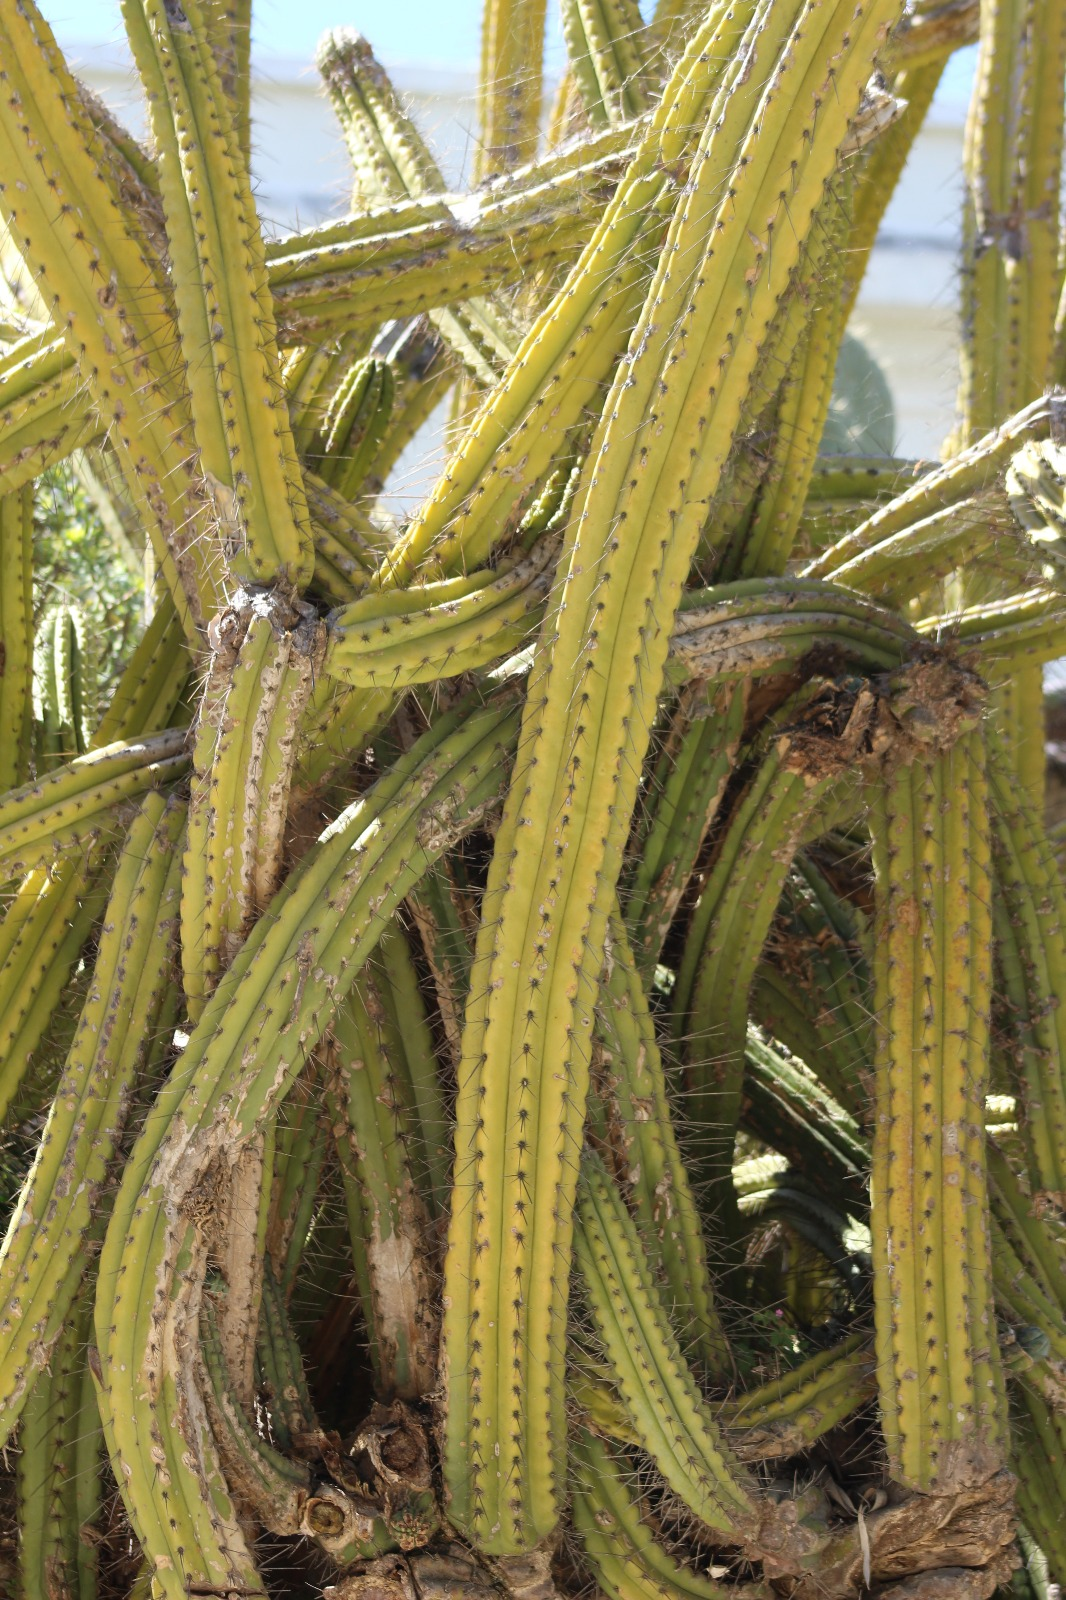
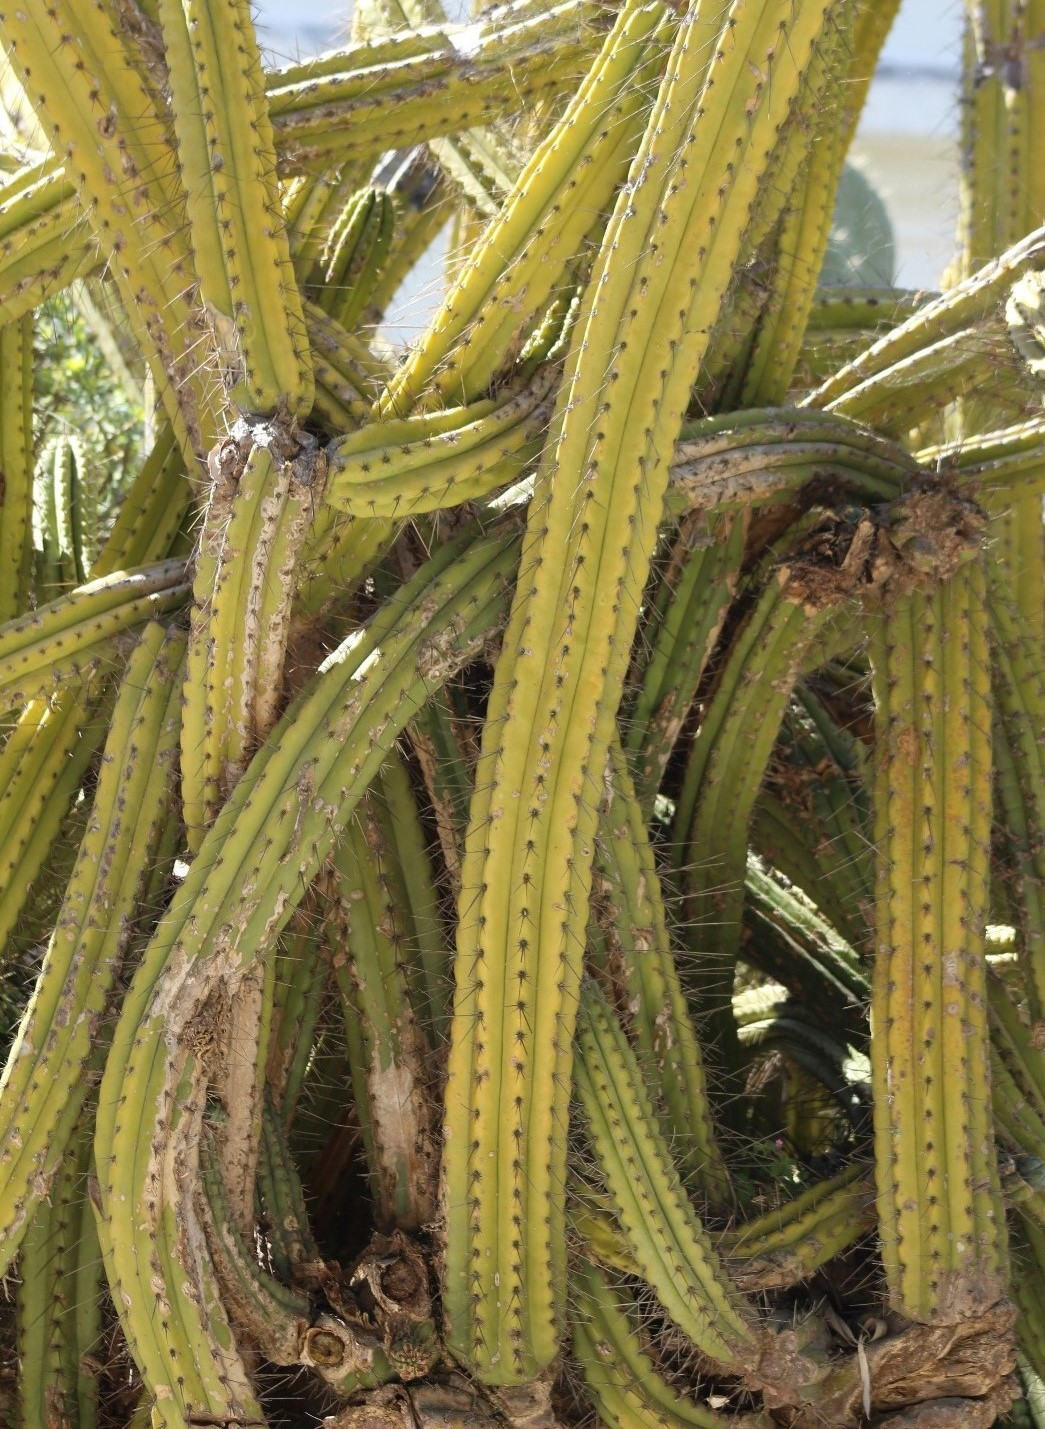
coloquei fotos nos detalhes

diff --git a/detalhe5.html b/detalhe5.html
@@ -26,7 +26,7 @@
 									<header>
 										<span class="date"></span>
 									</header>
-									<a href="#" class="image fit"><img src="images/pintura digital 4- final.jpeg" alt="" /></a>
+									<a href="#" class="image fit"><img src="images/IMG-20180502-WA0094.jpg" alt="" /></a>
 									<p></p>
 									<ul class="actions special">
 									</ul>
@@ -35,7 +35,7 @@
 									<header>
 										<span class="date"></span>
 									</header>
-									<a href="#" class="image fit"><img src="images/Captura de Ecrã (22).jpg" height="610" alt="" /></a>
+									<a href="#" class="image fit"><img src="images/IMG-20180502-WA0080.jpg" height="610" alt="" /></a>
 									<p></p>
 									<ul class="actions special">
 									</ul>
@@ -44,7 +44,7 @@
 									<header>
 										<span class="date"></span>
 									</header>
-									<a href="#" class="image fit"><img src="images/IMG_293fff1.JPG" alt="" /></a>
+									<a href="#" class="image fit"><img src="images/IMG-20180502-WA0037.jpg" alt="" /></a>
 									<p></p>
 									<ul class="actions special">
 									</ul>
@@ -53,7 +53,7 @@
 									<header>
 										<span class="date"></span>
 									</header>
-									<a href="#" class="image fit"><img src="images/aaaaaaaaaa.JPG" alt="" /></a>
+									<a href="#" class="image fit"><img src="images/IMG-20180502-WA0053.jpg" alt="" /></a>
 									<p></p>
 									<ul class="actions special">
 									</ul>
@@ -62,7 +62,7 @@
 									<header>
 										<span class="date"></span>
 									</header>
-									<a href="#" class="image fit"><img src="images/Final 1 .jpg" alt="" /></a>
+									<a href="#" class="image fit"><img src="images/IMG-20180502-WA0065.jpg" alt="" /></a>
 									<p></p>
 									<ul class="actions special">
 									</ul>
@@ -71,7 +71,7 @@
 									<header>
 										<span class="date"></span>
 									</header>
-									<a href="#" class="image fit"><img src="images/cccccccc.png" alt="" /></a>
+									<a href="#" class="image fit"><img src="images/IMG-20180502-WA0059.jpg" alt="" /></a>
 									<p></p>
 									<ul class="actions special">
 									</ul>

diff --git a/detalhe6.html b/detalhe6.html
@@ -26,7 +26,7 @@
 									<header>
 										<span class="date"></span>
 									</header>
-									<a href="#" class="image fit"><img src="images/pintura digital 4- final.jpeg" alt="" /></a>
+									<a href="#" class="image fit"><img src="images/IMG_0418[1].jpg" alt="" /></a>
 									<p></p>
 									<ul class="actions special">
 									</ul>
